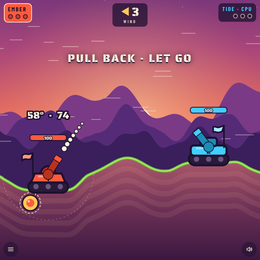
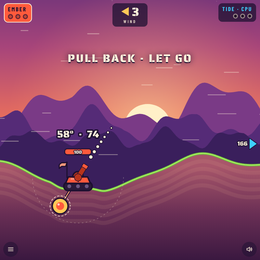
Artillery: a 3000-wide battlefield, a camera that follows the shot, smaller tanks
Following Worms-style games (battlefield wider than the screen, camera on the active tank and the shell), the world is 3000 wide with tanks 1600-2000 apart. Desktop shows ~2300 units so both tanks are in view at modest size; phones show ~1150 and pan, with an edge chevron and distance for the off-screen tank. Gravity, launch speed and wind are retuned so shots still take 2-3 s.

Claude-Session: https://claude.ai/code/session_01NR9d1HZvuS8vWH9grjHjSa

diff --git a/games/artillery.html b/games/artillery.html
@@ -108,9 +108,9 @@ canvas.drag{cursor:grabbing}
 <script id="core">
 /* Artillery core: terrain, shells, craters, damage, wind, matches and the computer. No DOM. */
 const Core = (() => {
-  const W = 1600, G = 300, VMAX = 720, WIND_ACC = 34, DT = 1 / 120;
+  const W = 3000, G = 450, VMAX = 1150, WIND_ACC = 50, DT = 1 / 120;
   const TANK_R = 62, PIVOT = 74, MUZZLE = 116, BLAST = 90, DMG = 62, HP = 100, WINS = 3;
-  const GROUND_MIN = 120, GROUND_MAX = 470;
+  const GROUND_MIN = 120, GROUND_MAX = 560;
 
   function rng(seed) {
     let a = seed >>> 0;
@@ -128,9 +128,9 @@ const Core = (() => {
   }
   function makeTerrain(r) {
     const h = new Float32Array(W + 1);
-    const waves = [[r() * 6.28, mix(.004, .0065, r()), mix(40, 70, r())], [r() * 6.28, mix(.009, .015, r()), mix(20, 34, r())], [r() * 6.28, mix(.024, .036, r()), mix(6, 12, r())]];
-    const mid = mix(220, 260, r());
-    const bc = W / 2 + mix(-90, 90, r()), bh = mix(70, 150, r()), bw = mix(150, 230, r());
+    const waves = [[r() * 6.28, mix(.0022, .0036, r()), mix(60, 110, r())], [r() * 6.28, mix(.005, .008, r()), mix(28, 50, r())], [r() * 6.28, mix(.013, .02, r()), mix(8, 16, r())]];
+    const mid = mix(230, 280, r());
+    const bc = W / 2 + mix(-160, 160, r()), bh = mix(110, 230, r()), bw = mix(260, 420, r());
     for (let i = 0; i <= W; i++) {
       let v = mid; for (const [p, f, a] of waves) v += Math.sin(i * f + p) * a;
       v += bh * Math.exp(-Math.pow((i - bc) / bw, 2));
@@ -151,7 +151,7 @@ const Core = (() => {
 
   function makeWorld(seed) {
     const r = rng(seed), h = makeTerrain(r);
-    const x0 = Math.round(mix(340, 440, r())), x1 = Math.round(W - mix(340, 440, r()));
+    const x0 = Math.round(mix(500, 700, r())), x1 = Math.round(W - mix(500, 700, r()));
     flatten(h, x0, 80, 110); flatten(h, x1, 80, 110);
     const w = { seed, h, r, wind: mix(-.6, .6, r()), tanks: [] };
     [[x0, 1], [x1, -1]].forEach(([x, dir], i) => {
@@ -300,49 +300,50 @@ const store = () => { try { localStorage.setItem(KEY, JSON.stringify(save)); } c
 //MIGRATE
 
 // ---------- layout
-let vw, vh, DPR, s, X0, Y0, lift = 0, liftT = 0, bg = null;
+let vw, vh, DPR, s, X0, Y0, lift = 0, liftT = 0, bg = null, V = 1150, cam = { x: C.W / 2, t: C.W / 2 };
 function layout() {
   DPR = Math.min(2, devicePixelRatio || 1); vw = innerWidth; vh = innerHeight;
   cv.width = Math.round(vw * DPR); cv.height = Math.round(vh * DPR);
-  s = Math.min(vw / 1220, vh / 700);
-  X0 = vw / 2 - C.W / 2 * s; Y0 = vh * .68 + 250 * s;
+  V = vw >= 900 ? 2300 : vw >= 600 ? 1700 : 1150; s = vw / V;
+  Y0 = vh * .68 + 250 * s; X0 = vw / 2 - cam.x * s;
   buildBackdrop();
 }
 const SX = x => X0 + x * s, SY = y => Y0 - y * s + lift;
 
 // ---------- the sky never changes, so paint it once
 function buildBackdrop() {
-  const H = Math.round(vh * 1.7), cvb = document.createElement('canvas');
-  cvb.width = Math.round(vw * DPR); cvb.height = Math.round(H * DPR);
+  const BW = Math.round(vw * 1.4), H = Math.round(vh * 1.7), cvb = document.createElement('canvas');
+  cvb.width = Math.round(BW * DPR); cvb.height = Math.round(H * DPR);
   const x = cvb.getContext('2d'); x.scale(DPR, DPR);
   const base = H - vh * .34; // screen line of the ground, measured in this tall image
   let gr = x.createLinearGradient(0, 0, 0, H);
   gr.addColorStop(0, '#1f1450'); gr.addColorStop(.3, '#4d2a7a'); gr.addColorStop(.52, '#a8457a'); gr.addColorStop(.7, '#f0735a'); gr.addColorStop(.86, '#ffb775'); gr.addColorStop(1, '#ffd39a');
-  x.fillStyle = gr; x.fillRect(0, 0, vw, H);
+  x.fillStyle = gr; x.fillRect(0, 0, BW, H);
   x.fillStyle = PAPER;
-  for (let i = 0; i < 70; i++) { x.globalAlpha = .2 + .6 * ((i * 37) % 9) / 9; const r = ((i * 53) % 10) / 10 > .85 ? 2.2 : 1.4; x.fillRect(((i * 977) % 1000) / 1000 * vw, ((i * 613) % 1000) / 1000 * base * .55, r, r); }
+  for (let i = 0; i < 70; i++) { x.globalAlpha = .2 + .6 * ((i * 37) % 9) / 9; const r = ((i * 53) % 10) / 10 > .85 ? 2.2 : 1.4; x.fillRect(((i * 977) % 1000) / 1000 * BW, ((i * 613) % 1000) / 1000 * base * .55, r, r); }
   x.globalAlpha = 1;
-  const sx = vw * .5, sy = base - Math.min(vh * .17, 150), sr = Math.min(vw, vh) * .09;
+  const sx = BW * .5, sy = base - Math.min(vh * .17, 150), sr = Math.min(vw, vh) * .09;
   gr = x.createRadialGradient(sx, sy, sr * .4, sx, sy, vh * .55);
-  gr.addColorStop(0, 'rgba(255,225,160,.55)'); gr.addColorStop(1, 'rgba(255,150,100,0)'); x.fillStyle = gr; x.fillRect(0, 0, vw, H);
+  gr.addColorStop(0, 'rgba(255,225,160,.55)'); gr.addColorStop(1, 'rgba(255,150,100,0)'); x.fillStyle = gr; x.fillRect(0, 0, BW, H);
   x.fillStyle = '#fff0c8'; x.beginPath(); x.arc(sx, sy, sr, 0, 7); x.fill();
   // thin cloud bars crossing the sun
   x.fillStyle = 'rgba(140,50,110,.55)';
   for (let k = 0; k < 4; k++) { const cy = sy - sr * .1 + k * sr * .38; x.fillRect(sx - sr * 1.6 + k * 20, cy, sr * 3.2 - k * 40, 3 + k); }
   [['#7a3a86', .34, 11, 3.1, .2], ['#552b77', .22, 17, 5.3, .5], ['#3a1f5c', .13, 23, 8.1, .9]].forEach(([col, hh, fr, ph, par]) => {
     x.fillStyle = col; x.beginPath(); x.moveTo(0, H);
-    for (let px = 0; px <= vw + 8; px += 8) {
-      const t = px / vw * Math.PI * 2;
+    for (let px = 0; px <= BW + 8; px += 8) {
+      const t = px / BW * Math.PI * 2 * 1.4;
       const yy = base - vh * (.05 + hh * .5) - Math.sin(t * fr / 6 + ph) * vh * hh * .22 - Math.sin(t * fr / 2.3 + ph * 2) * vh * hh * .09 - Math.abs(Math.sin(t * fr / 9 + ph)) * vh * hh * .15;
       x.lineTo(px, yy);
     }
-    x.lineTo(vw, H); x.fill();
+    x.lineTo(BW, H); x.fill();
   });
-  bg = { cv: cvb, H, base };
+  bg = { cv: cvb, H, base, BW };
 }
 
 // ---------- the world as drawn: heights ease toward the core's, so craters sink instead of popping
 let M = null, shown = null, scorch = null, glow = null, tview = [{}, {}];
+function camSnap() { state = 'aim'; ptn = M.turn; cam.t = camTarget(); cam.x = cam.t; X0 = vw / 2 - cam.x * s; }
 function worldShow() {
   shown = Float32Array.from(M.world.h); scorch = new Float32Array(C.W + 1); glow = new Float32Array(C.W + 1);
   tview = M.world.tanks.map(t => ({ y: t.y, hp: t.hp, tilt: 0, wob: 0, dead: false }));
@@ -419,7 +420,7 @@ function startMatch(vsCpu, seed) {
   cpu = vsCpu; M = C.newMatch(seed, vsCpu ? 'cpu' : 'two'); cpuMem = [{}, {}];
   lastMark = [null, null]; parts.length = floats.length = 0;
   $('nm1').textContent = vsCpu ? 'Tide · CPU' : 'Tide';
-  worldShow(); beginTurn(true); setScreen(null); $('hud').classList.remove('off'); drawPips(true);
+  worldShow(); camSnap(); beginTurn(true); setScreen(null); $('hud').classList.remove('off'); drawPips(true);
 }
 function today() { return Math.floor((Date.now() - new Date().getTimezoneOffset() * 6e4) / 864e5); }
 function seedParam() { const m = /[?&]seed=(\d+)/.exec(location.search); return m ? +m[1] : null; }
@@ -541,7 +542,7 @@ function afterShot() {
 function nextRound() {
   if (M.over) { finish(); return; }
   if (M.roundWinner === -1) M.round--; // a draw is replayed on a fresh hill
-  C.nextRound(M); worldShow(); lastMark = [null, null]; setWindUI(M.world.wind); drawPips(); beginTurn(true);
+  C.nextRound(M); worldShow(); camSnap(); lastMark = [null, null]; setWindUI(M.world.wind); drawPips(); beginTurn(true);
 }
 function finish() {
   state = 'over'; const w = M.winner, you = cpu ? w === 0 : null;
@@ -694,7 +695,7 @@ function drawParticles() {
 function render(dt) {
   g.setTransform(DPR, 0, 0, DPR, 0, 0);
   const sh = shake * s * 1.3, ox = (Math.random() - .5) * sh, oy = (Math.random() - .5) * sh;
-  g.drawImage(bg.cv, 0, 0, bg.cv.width, bg.cv.height, 0, -(bg.H - vh) + lift * .25, vw, bg.H);
+  g.drawImage(bg.cv, 0, 0, bg.cv.width, bg.cv.height, -(bg.BW - vw) * clamp(cam.x / C.W, 0, 1), -(bg.H - vh) + lift * .25, bg.BW, bg.H);
   g.save(); g.translate(ox, oy);
   if (!M) { g.restore(); return; }
   drawWind(dt); drawTerrain();
@@ -715,6 +716,12 @@ function render(dt) {
   drawParticles();
   for (const f of floats) { const t = f.life / f.max; g.globalAlpha = t < .7 ? 1 : 1 - (t - .7) / .3; g.font = `400 ${(f.big ? 46 : 32) * Math.max(.9, s * 2.4) * (f.pop ? (f.life < .18 ? .5 + f.life / .18 * .9 : 1.4 - Math.min(.4, (f.life - .18) * 2)) : 1)}px "Saira Stencil One",Impact`; g.textAlign = 'center'; g.lineWidth = 7; g.strokeStyle = INK; g.lineJoin = 'round'; const y = SY(f.y + f.vy * f.life * (1 - t * .3)); g.strokeText(f.txt, SX(f.x), y); g.fillStyle = f.col; g.fillText(f.txt, SX(f.x), y); g.globalAlpha = 1; }
   g.restore();
+  for (let i = 0; i < 2; i++) { // a chevron at the screen edge for a tank out of view
+    const t = M.world.tanks[i], x = SX(t.x); if (state === 'idle' || x > -20 && x < vw + 20 || tview[i].dead) continue;
+    const left = x < 0, ex = left ? 22 : vw - 22, ey = clamp(SY(tview[i].y + 80), 150, vh - 120), d = Math.round(Math.abs(t.x - M.world.tanks[1 - i].x) / 10);
+    g.fillStyle = COL[i].main; g.strokeStyle = INK; g.lineWidth = 4; g.lineJoin = 'round'; g.beginPath(); g.moveTo(ex + (left ? -12 : 12), ey); g.lineTo(ex + (left ? 10 : -10), ey - 16); g.lineTo(ex + (left ? 10 : -10), ey + 16); g.closePath(); g.stroke(); g.fill();
+    g.font = '400 18px "Saira Stencil One",Impact'; g.textAlign = left ? 'left' : 'right'; g.lineWidth = 5; g.strokeStyle = INK; g.strokeText(d, left ? 38 : vw - 38, ey + 6); g.fillStyle = PAPER; g.fillText(d, left ? 38 : vw - 38, ey + 6);
+  }
   if (flash > 0) { g.fillStyle = `rgba(255,236,200,${flash})`; g.fillRect(0, 0, vw, vh); }
 }
 
@@ -727,8 +734,19 @@ function frame(now) {
   if (bg) render(dt);
   requestAnimationFrame(frame);
 }
+function camTarget() {
+  const half = V / 2, lo = half, hi = C.W - half, cl = x => clamp(x, lo, hi);
+  if (state === 'fly' && shot) { const p = shellPos(); return cl(p.x + (shot.shooter === 0 ? 1 : -1) * V * .08); }
+  if (state === 'aim' || state === 'think') {
+    const t = M.world.tanks[ptn], o = M.world.tanks[1 - ptn], gap = Math.abs(o.x - t.x);
+    if (gap + 380 <= V) return cl((t.x + o.x) / 2);
+    return cl(t.x + Math.sign(o.x - t.x) * V * .2);
+  }
+  return cam.t;
+}
 function update(dt) {
   stateT += dt; updateParts(dt);
+  cam.t = camTarget(); cam.x += (cam.t - cam.x) * (1 - Math.exp(-dt * (RM ? 40 : state === 'fly' ? 6 : 3.2))); X0 = vw / 2 - cam.x * s;
   const w = M.world;
   for (let i = 0; i <= C.W; i++) { const d = w.h[i] - shown[i]; if (d) shown[i] += Math.abs(d) < .05 ? d : d * Math.min(1, dt * 10); }
   tview.forEach((v, i) => { const t = w.tanks[i]; v.y += (t.y - v.y) * Math.min(1, dt * 9); v.hp += (t.hp - v.hp) * Math.min(1, dt * 7); if (Math.abs(t.hp - v.hp) < .3) v.hp = t.hp; v.tilt += (slopeAt(t.x) - v.tilt) * Math.min(1, dt * 12); if (v.wob > 0) v.wob = Math.max(0, v.wob - dt * 1.6); });
